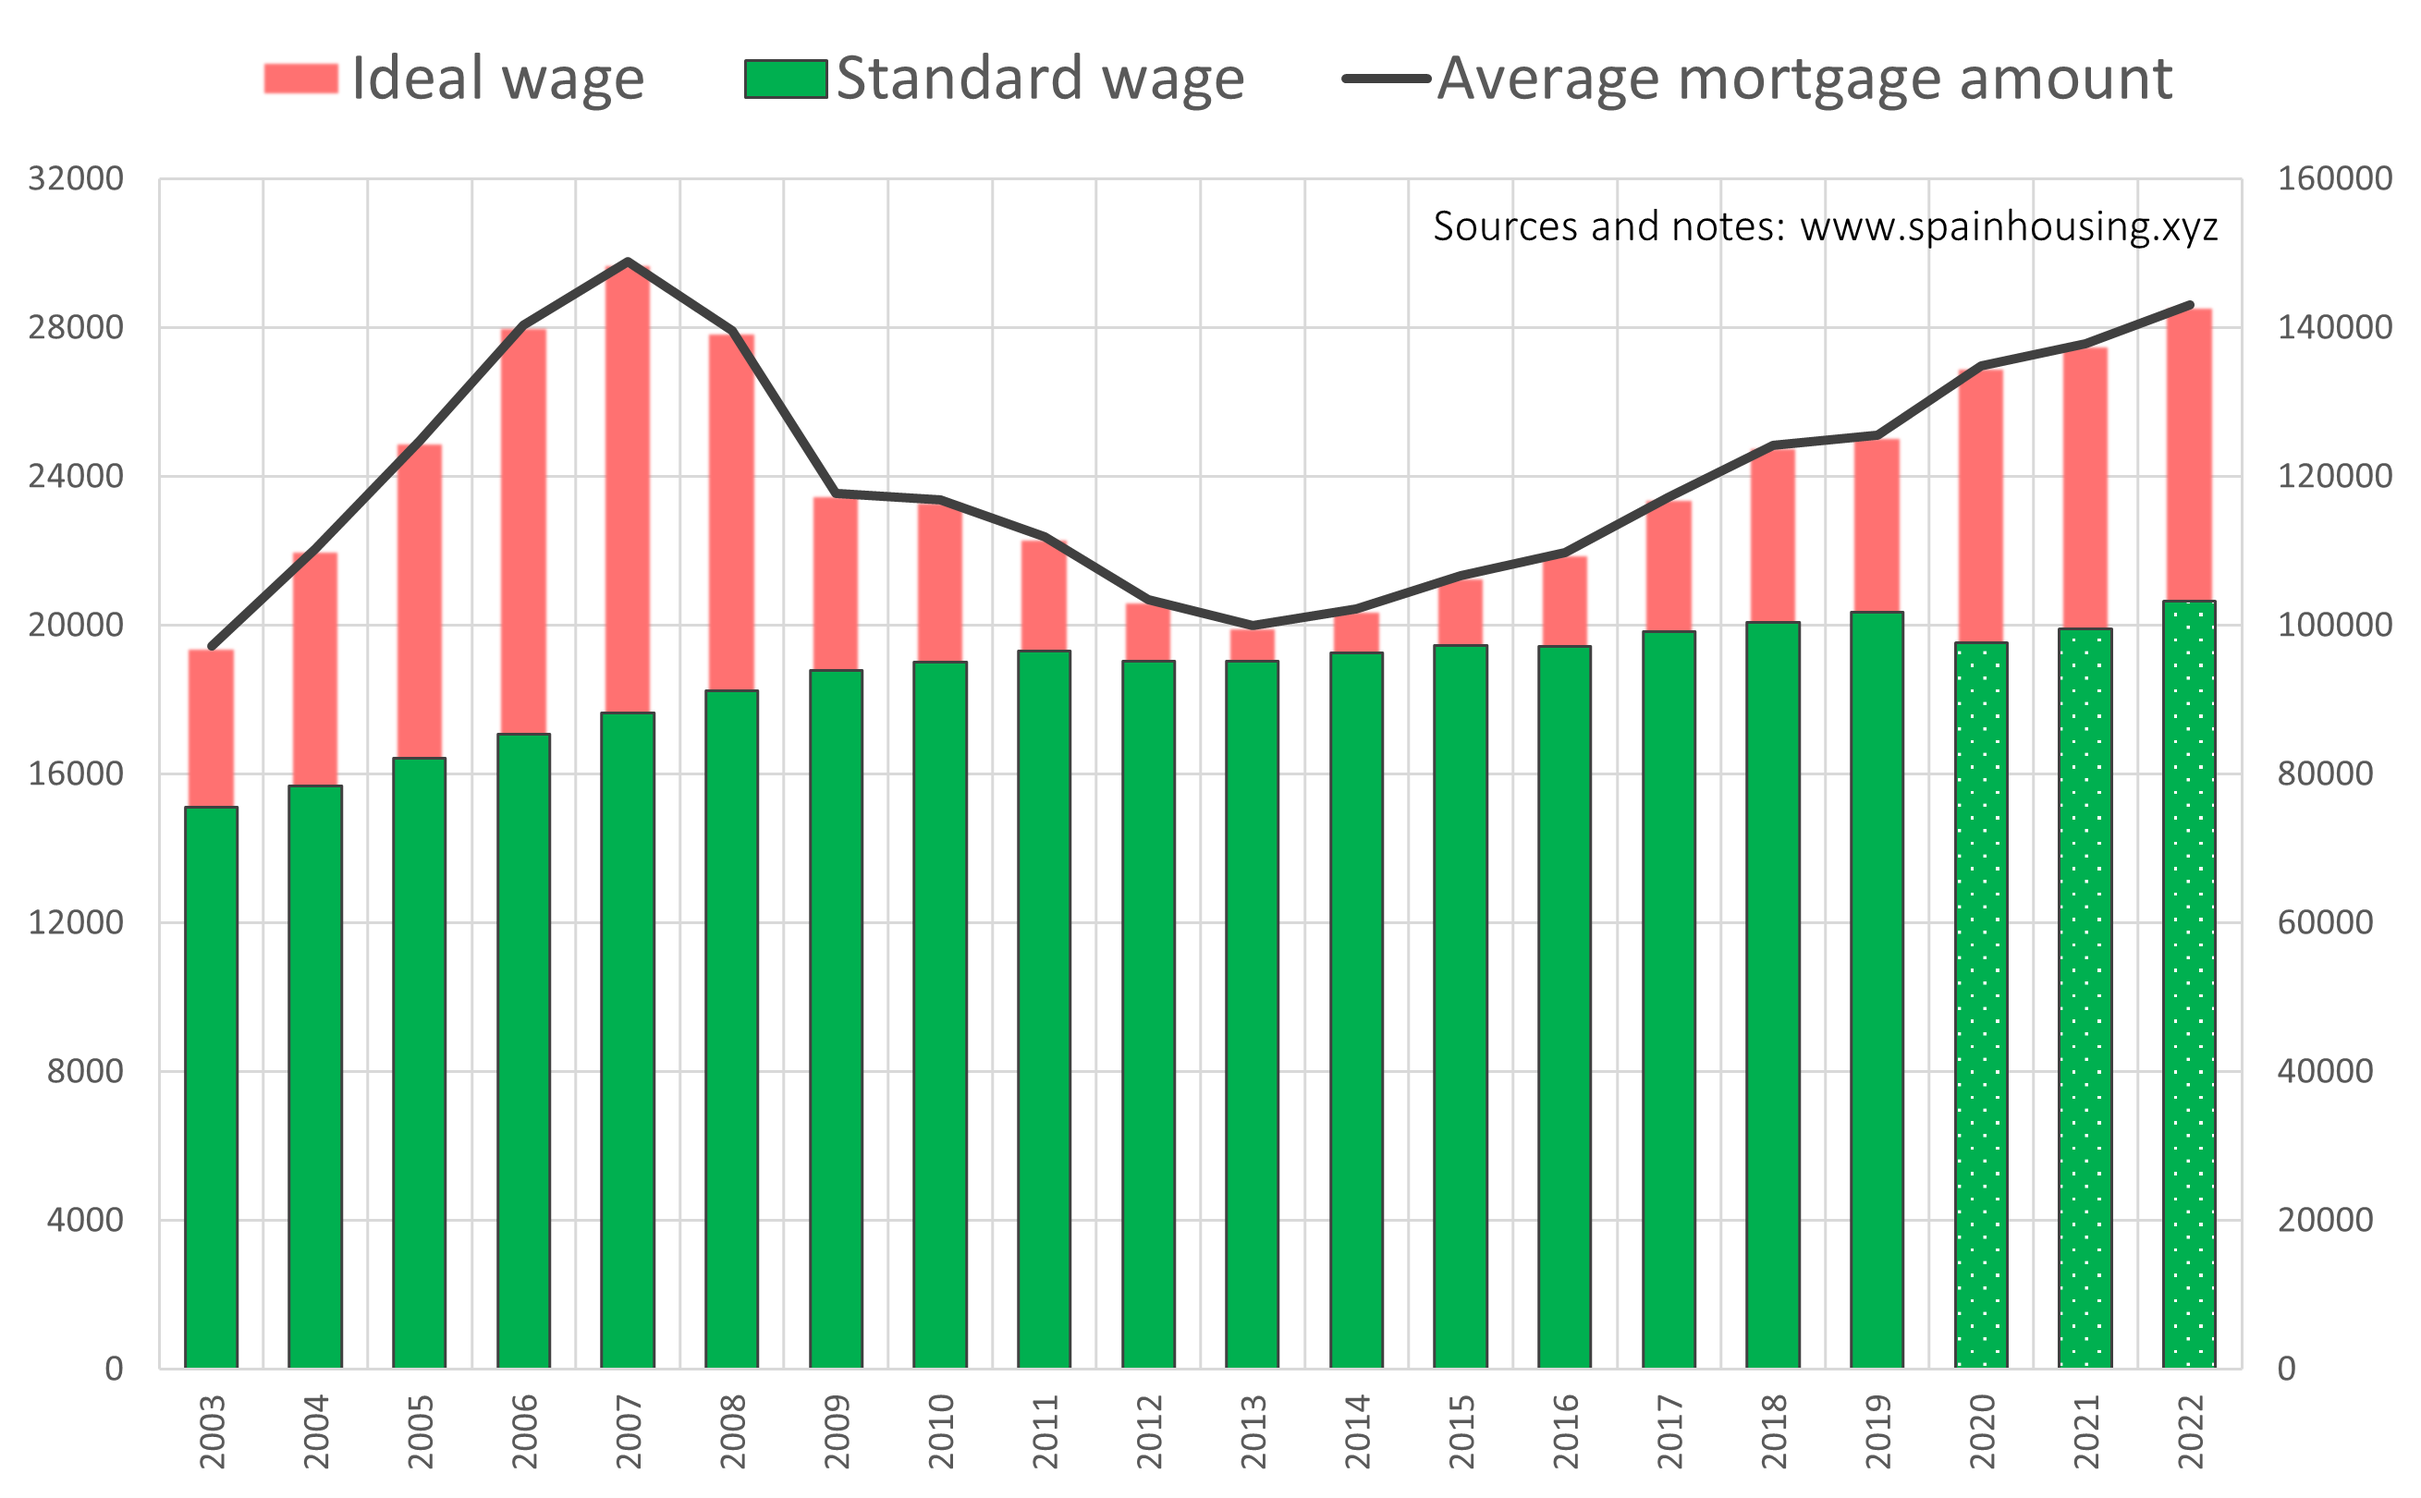
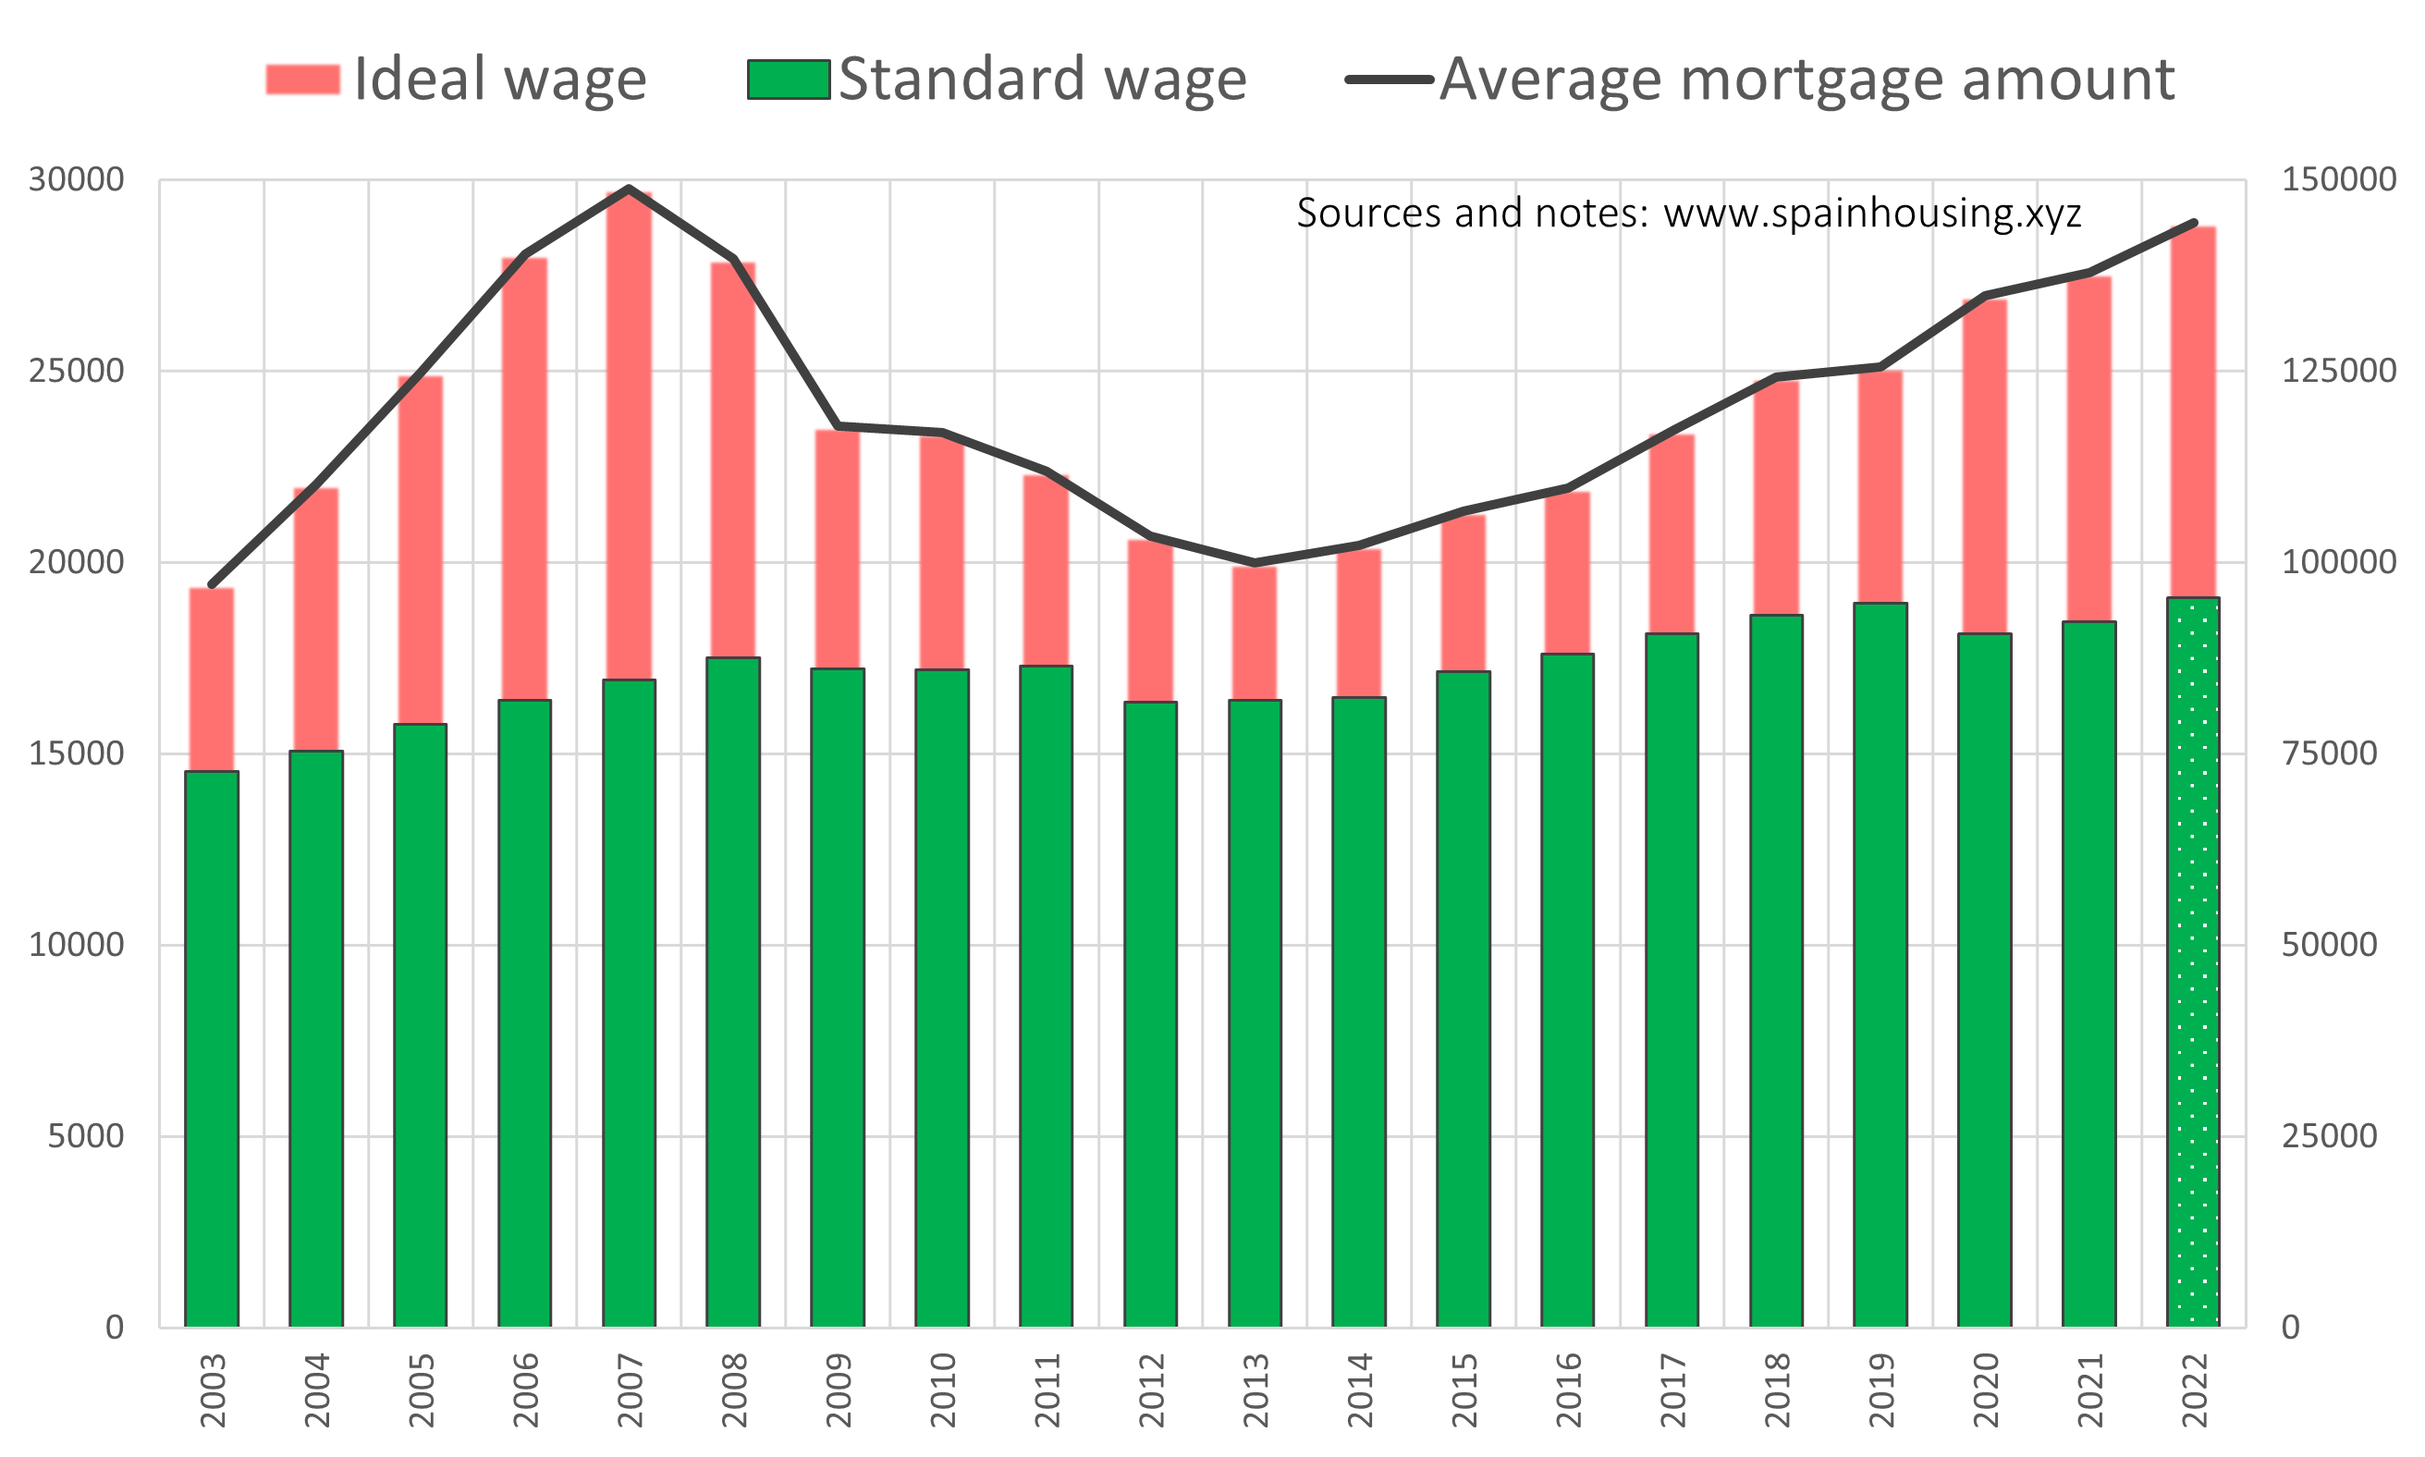
update

diff --git a/pages/posts/wages.md b/pages/posts/wages.md
@@ -12,7 +12,7 @@ import Image from 'next/image'
 
 [![Salarios y precio de la vivienda](/images/sou.png)](/images/sou.png)
 
-- **Left axis (bars)**: wages. The standard wage represents the median of the salaries distribution in Spain, in euros. Data for 2020 and 2021 are still pending official confirmation, instead, household disposable income has been used for the projection.
+- **Left axis (bars)**: wages. The standard wage represents the net disposable income averaged for those over 18 years of age in Spain, in euros.
 - **Right axis (line)**: average mortgage amount, Spain, in euros.
 
 [![Salario ideal](/images/souideal.png)](/images/souideal.png)
@@ -33,7 +33,6 @@ The first chart from above shows the housing cycles by looking at wages. In this
 
 # Data sources
 
-- Wage distribution (median): [Link](https://www.ine.es/jaxiT3/Tabla.htm?t=28191)
 - Household disposable income: [Link](https://www.ine.es/jaxiT3/Tabla.htm?t=30906)
 - Household savings: [Link](https://www.ine.es/jaxiT3/Tabla.htm?t=30906)
 - Mortgages: [Link](https://www.ine.es/dyngs/INEbase/es/operacion.htm?c=Estadistica_C&cid=1254736170236&menu=resultados&idp=1254735576757#!tabs-1254736158259)
